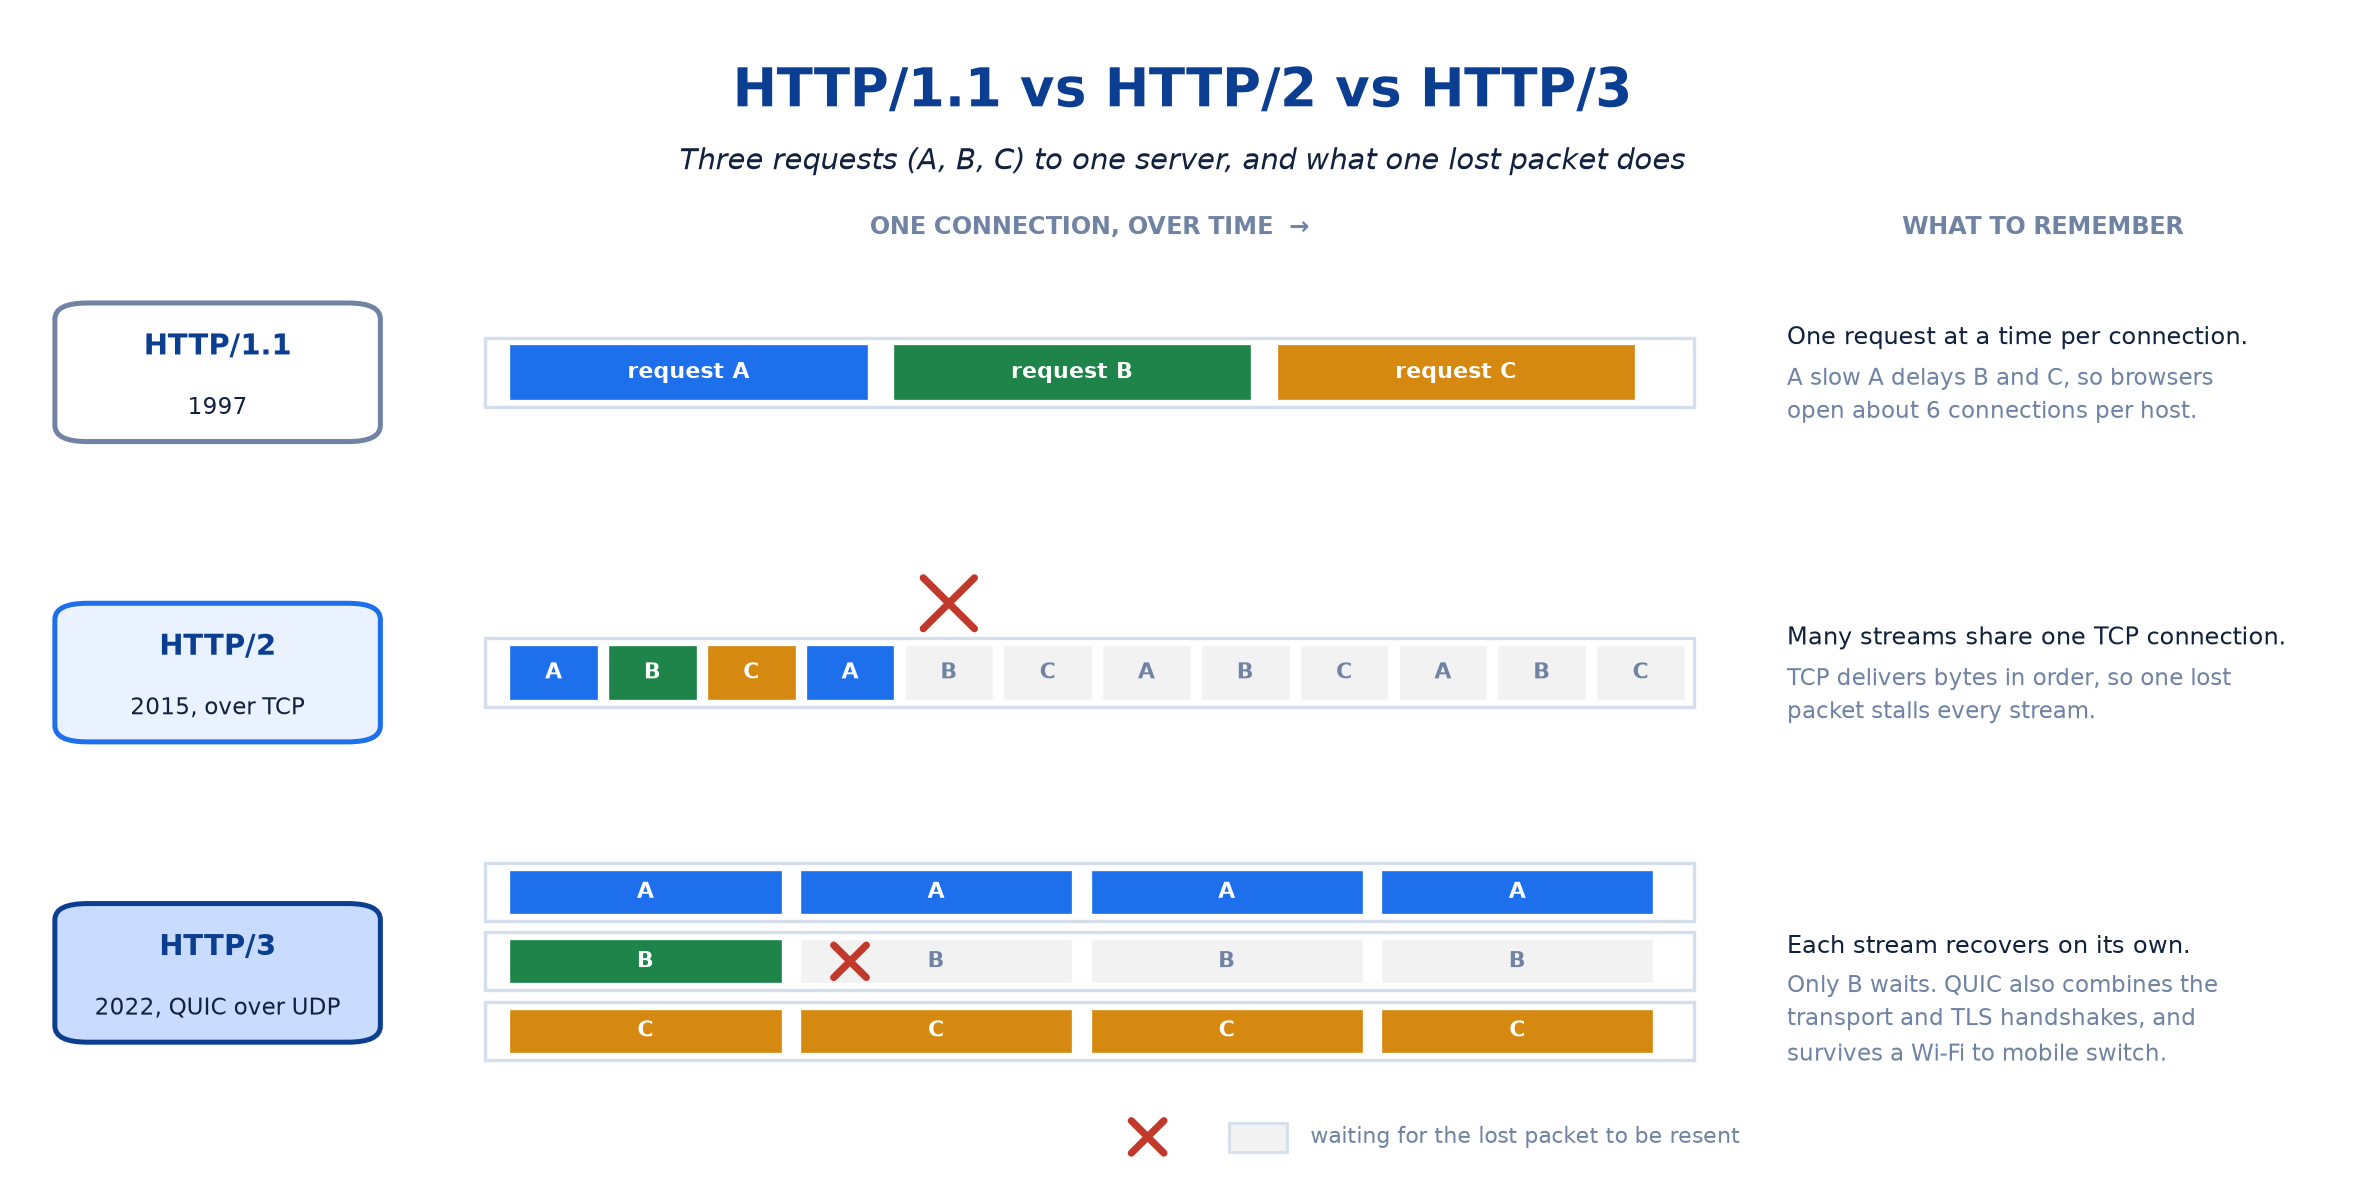
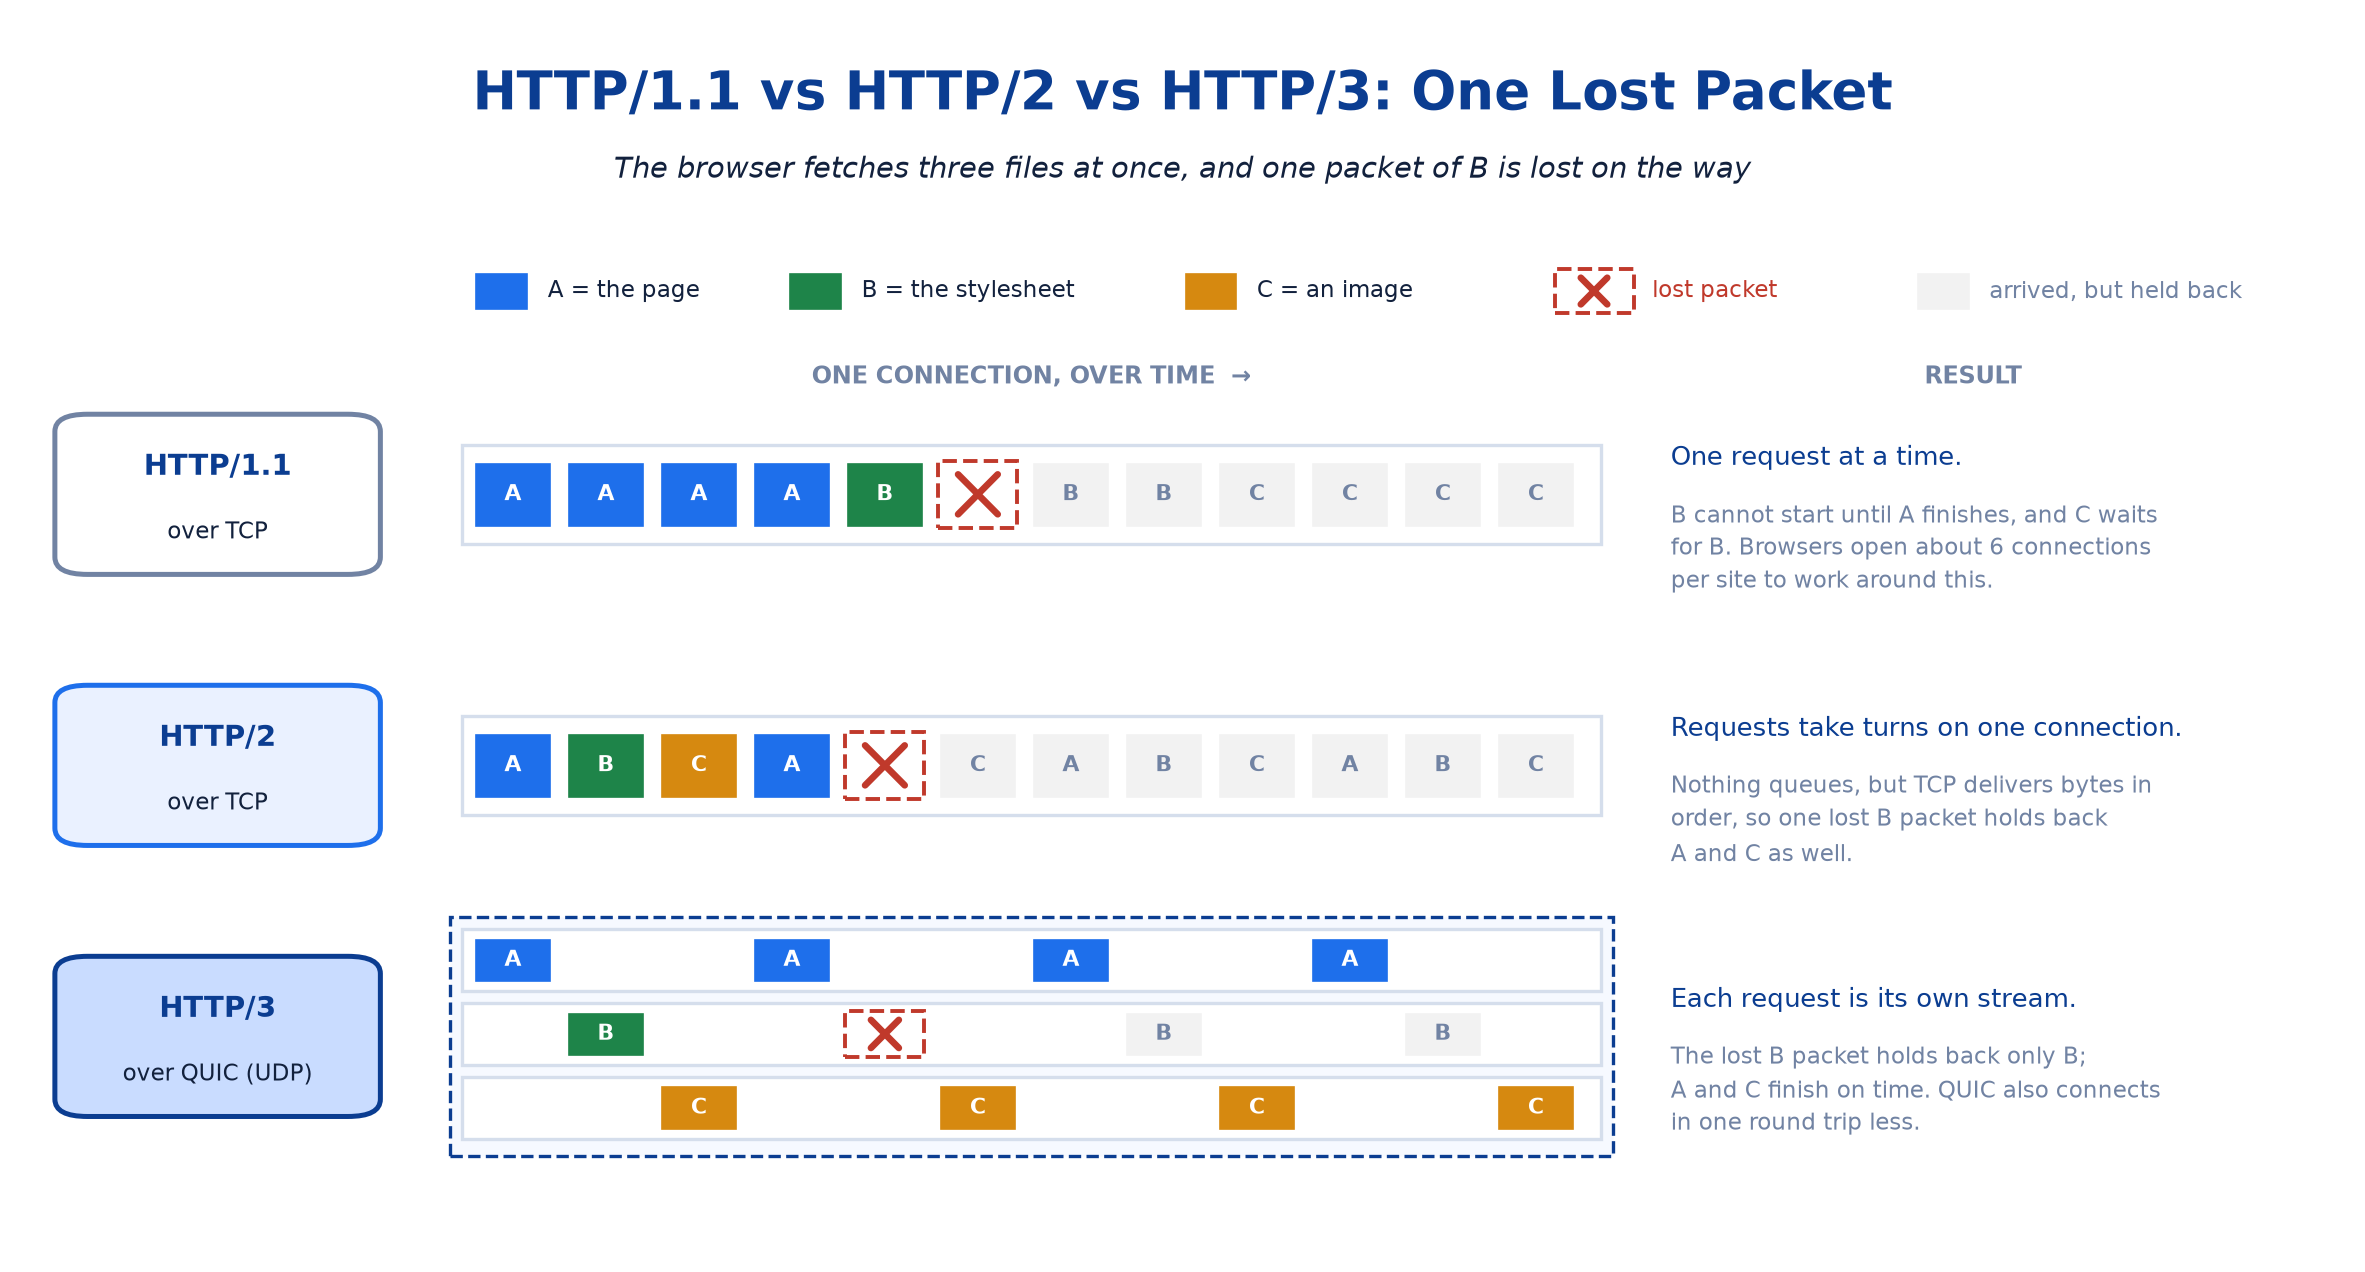
Basics 4: clearer HTTP versions figure (one scenario, one lost packet) and fuller table

diff --git a/system-design/_support/tools/plot_topic_04_figures.py b/system-design/_support/tools/plot_topic_04_figures.py
@@ -271,63 +271,84 @@ def connection_setup() -> plt.Figure:
 
 
 def http_versions() -> plt.Figure:
-    fig, ax = canvas(15, 7.5)
-    heading(ax, "HTTP/1.1 vs HTTP/2 vs HTTP/3",
-            "Three requests (A, B, C) to one server, and what one lost packet does")
+    fig, ax = canvas(15, 8)
+    heading(ax, "HTTP/1.1 vs HTTP/2 vs HTTP/3: One Lost Packet",
+            "The browser fetches three files at once, and one packet of B is lost on the way")
     colors = {"A": BLUE, "B": GREEN, "C": AMBER}
-    caps(ax, 46, 82, "ONE CONNECTION, OVER TIME  →")
-    caps(ax, 87, 82, "WHAT TO REMEMBER")
+    step, width, left = 4.0, 3.4, 19.5
 
-    def lane(y: float, height: float = 6) -> None:
-        ax.add_patch(Rectangle((20, y), 52, height, facecolor=WHITE, edgecolor=LINE,
+    def lost(x: float, y: float, height: float) -> None:
+        """An empty slot with a red X: the packet that never arrived."""
+        ax.add_patch(Rectangle((x, y), width, height, facecolor=WHITE, edgecolor=RED,
+                               linewidth=1.4, linestyle="--"))
+        cx, cy = x + width / 2, y + height / 2
+        half_y = height * 0.3                 # the X always fits inside its slot
+        half_x = half_y / 1.9                 # and stays square on this aspect ratio
+        for sign in (1, -1):
+            ax.plot([cx - half_x, cx + half_x], [cy - sign * half_y, cy + sign * half_y],
+                    color=RED, linewidth=2.4, solid_capstyle="round")
+
+    def packets(sequence: str, y: float, height: float, lost_at: int,
+                held_back: set[int]) -> None:
+        for index, name in enumerate(sequence):
+            x = left + index * step
+            if index == lost_at:
+                lost(x, y, height)
+            elif index in held_back:
+                bar(ax, x, y, width, height, DEAD, name, text_color=GREY)
+            elif name != " ":
+                bar(ax, x, y, width, height, colors[name], name)
+
+    def lane(y: float, height: float) -> None:
+        ax.add_patch(Rectangle((19, y), 49, height, facecolor=WHITE, edgecolor=LINE,
                                linewidth=1.2))
 
-    def lost(x: float, y: float, size: float = 1.1) -> None:
-        """Draw a red X marking a lost packet (two strokes, no glyph needed)."""
-        dy = size * 15 / 7.5          # keep the X square on this aspect ratio
-        for sign in (1, -1):
-            ax.plot([x - size, x + size], [y - sign * dy, y + sign * dy],
-                    color=RED, linewidth=2.6, solid_capstyle="round")
+    def result(y: float, title: str, body: str) -> None:
+        note(ax, 71, y, title, size=9.2, color=NAVY)
+        note(ax, 71, y - 7.4, body, size=8.2, color=GREY)
 
-    # HTTP/1.1: one request at a time.
-    box(ax, 2, 64, 13, 11, "HTTP/1.1", "1997", face=WHITE, edge=GREY)
-    lane(66.5)
-    for index, name in enumerate("ABC"):
-        bar(ax, 21 + index * 16.5, 67, 15.5, 5, colors[name], f"request {name}")
-    note(ax, 76, 72.5, "One request at a time per connection.")
-    note(ax, 76, 67.5, "A slow A delays B and C, so browsers\nopen about 6 connections per host.",
-         size=8.2, color=GREY)
+    # Key, then column headings.
+    key_y = 78
+    for x, name, label in ((19.5, "A", "A = the page"), (33, "B", "B = the stylesheet"),
+                           (50, "C", "C = an image")):
+        bar(ax, x, key_y - 1.6, 2.4, 3.2, colors[name])
+        note(ax, x + 3.2, key_y, label, size=8.4)
+    lost(66, key_y - 1.8, 3.6)
+    note(ax, 70.2, key_y, "lost packet", size=8.4, color=RED)
+    bar(ax, 81.5, key_y - 1.6, 2.4, 3.2, DEAD)
+    note(ax, 84.7, key_y, "arrived, but held back", size=8.4, color=GREY)
+    caps(ax, 43.5, 71, "ONE CONNECTION, OVER TIME  →")
+    caps(ax, 84, 71, "RESULT")
 
-    # HTTP/2: frames interleaved on one TCP connection; one loss stalls all.
-    box(ax, 2, 38, 13, 11, "HTTP/2", "2015, over TCP", face=PALE, edge=BLUE)
-    lane(40.5)
-    sequence = "ABCABCABCABC"
-    for index, name in enumerate(sequence):
-        stalled = index > 3
-        bar(ax, 21 + index * 4.25, 41, 3.9, 5, DEAD if stalled else colors[name],
-            name, text_color=GREY if stalled else WHITE)
-    lost(21 + 4 * 4.25 + 1.95, 49.5)
-    note(ax, 76, 46.5, "Many streams share one TCP connection.")
-    note(ax, 76, 41.5, "TCP delivers bytes in order, so one lost\npacket stalls every stream.",
-         size=8.2, color=GREY)
+    # HTTP/1.1: one request at a time, so everything queues behind the gap.
+    box(ax, 2, 55.5, 13, 12, "HTTP/1.1", "over TCP", face=WHITE, edge=GREY)
+    lane(57.5, 8)
+    packets("AAAABBBBCCCC", 58.8, 5.4, lost_at=5, held_back=set(range(6, 12)))
+    result(64.5, "One request at a time.",
+           "B cannot start until A finishes, and C waits\nfor B. Browsers open about 6 connections\n"
+           "per site to work around this.")
 
-    # HTTP/3: QUIC streams recover independently.
-    box(ax, 2, 12, 13, 11, "HTTP/3", "2022, QUIC over UDP", face=MIST, edge=NAVY)
+    # HTTP/2: requests take turns on one TCP connection; TCP's ordering stalls them all.
+    box(ax, 2, 33.5, 13, 12, "HTTP/2", "over TCP", face=PALE, edge=BLUE)
+    lane(35.5, 8)
+    packets("ABCABCABCABC", 36.8, 5.4, lost_at=4, held_back=set(range(5, 12)))
+    result(42.5, "Requests take turns on one connection.",
+           "Nothing queues, but TCP delivers bytes in\norder, so one lost B packet holds back\n"
+           "A and C as well.")
+
+    # HTTP/3: one QUIC connection, but each request is an independent stream.
+    box(ax, 2, 11.5, 13, 12, "HTTP/3", "over QUIC (UDP)", face=MIST, edge=NAVY)
+    ax.add_patch(Rectangle((18.5, 7.8), 50, 19.4, facecolor="#F6F9FF", edgecolor=NAVY,
+                           linewidth=1.2, linestyle="--"))
     for row, name in enumerate("ABC"):
-        y = 22 - row * 6
+        y = 21.2 - row * 6
         lane(y, 5)
-        for index in range(4):
-            stalled = name == "B" and index > 0
-            bar(ax, 21 + index * 12.5, y + 0.5, 11.8, 4,
-                DEAD if stalled else colors[name], name,
-                text_color=GREY if stalled else WHITE)
-    lost(21 + 12.5 + 2.2, 18.5, size=0.7)
-    note(ax, 76, 20, "Each stream recovers on its own.")
-    note(ax, 76, 13.5, "Only B waits. QUIC also combines the\ntransport and TLS handshakes, and\n"
-         "survives a Wi-Fi to mobile switch.", size=8.2, color=GREY)
-    ax.add_patch(Rectangle((52, 2), 2.5, 2.5, facecolor=DEAD, edgecolor=LINE))
-    note(ax, 55.5, 3.3, "waiting for the lost packet to be resent", size=8, color=GREY)
-    lost(48.5, 3.3, size=0.7)
+        sequence = "".join(name if index % 3 == row else " " for index in range(12))
+        held = {7, 10} if name == "B" else set()
+        packets(sequence, y + 0.6, 3.8, lost_at=4 if name == "B" else -1, held_back=held)
+    result(20.5, "Each request is its own stream.",
+           "The lost B packet holds back only B;\nA and C finish on time. QUIC also connects\n"
+           "in one round trip less.")
     return fig
 
 

diff --git a/system-design/basics/04_Networking_And_Request_Lifecycle.md b/system-design/basics/04_Networking_And_Request_Lifecycle.md
@@ -386,20 +386,22 @@ The full rules of API design, such as resource naming, pagination, and versionin
 
 **In one line:** all three versions mean the same thing; they differ in how requests share a connection, and in what one lost packet does.
 
-![HTTP/1.1, HTTP/2, and HTTP/3 under one lost packet](assets/topic-04/http_versions.png)
+All three versions speak the same language: the same methods, status codes, and headers, so `GET /summer-sale` means exactly the same thing in each. What changed over the years is **how requests travel over the connection**. That matters most when a page needs many files at once, on a network that is losing packets.
+
+![HTTP/1.1, HTTP/2, and HTTP/3 when one packet is lost](assets/topic-04/http_versions.png)
+
+The picture shows the same situation for each version: the browser fetches three files at once (A, B, and C), and one packet of B is lost on the way. The table explains each row:
 
 | | HTTP/1.1 (1997) | HTTP/2 (2015) | HTTP/3 (2022) |
 |---|---|---|---|
-| Runs on | TCP | TCP | QUIC, over UDP |
-| Requests per connection | One at a time | Many at once, as interleaved **streams** | Many at once, as independent streams |
-| One lost packet | Delays the request in flight | Stalls **every** stream, because TCP delivers in order | Stalls only its own stream |
-| New connection cost | 2 round trips (TCP + TLS) | 2 round trips (TCP + TLS) | 1 round trip (combined) |
-| Typical use today | Simple clients and older systems | Most browser traffic, and gRPC between services | Browsers and mobile apps on unreliable networks |
+| **Runs on** | TCP, usually with TLS on top. | TCP, with TLS on top. | QUIC, a newer transport built on UDP, with TLS built in. |
+| **How requests share a connection** | One at a time. A second request must wait until the first response has finished, so browsers open about 6 connections per site to fetch files in parallel. | Many at once. Each request becomes a **stream**, and the streams take turns sending small pieces over a single connection. | Many at once, as streams, like HTTP/2. The difference is that QUIC keeps track of each stream separately. |
+| **When one packet is lost** | The request it belongs to waits for the resend, and so does every request queued behind it on that connection. | Every stream waits, even those whose data has already arrived, because TCP hands bytes over strictly in order. | Only the stream that lost the packet waits; the others carry on. |
+| **Setting up a new connection** | 2 round trips: a TCP handshake, then a TLS 1.3 handshake. | The same 2 round trips as HTTP/1.1. | 1 round trip, because QUIC sets up the connection and the encryption together. |
+| **When the network changes** | A phone moving from Wi-Fi to mobile data gets a new IP address, so the connection breaks and must be set up again. | The same as HTTP/1.1. | The connection survives, because QUIC identifies it by a connection ID instead of by IP address. |
+| **Typical use today** | Simple clients, scripts, and older systems. | Most browser traffic, and gRPC calls between services. | Browsers and mobile apps, especially on unreliable networks. Usually switched on at the CDN or load balancer. |
 
-Two points are worth saying in an interview:
-
-- **HTTP/2 moved the bottleneck rather than removing it.** It lets many requests share one connection, but they all share one TCP stream, so one lost packet stalls them all. HTTP/3 fixes this by building its own independent streams on top of UDP.
-- **HTTP/3 survives network changes.** QUIC identifies a connection by an ID, not by IP address, so a phone switching from Wi-Fi to mobile data keeps its connection instead of starting over.
+**The point worth making in an interview:** HTTP/2 moved the bottleneck rather than removing it. It fixed HTTP/1.1's one-at-a-time queue, but its streams still share TCP's single, strictly ordered stream of bytes, so one lost packet stalls them all. HTTP/3 fixes that by moving off TCP onto QUIC.
 
 **What this tells us:** each click on the URL shortener sends one small request, so reusing the connection matters more than the HTTP version. HTTP/3 helps most for users on patchy mobile networks, and it is usually switched on at the edge or the load balancer, with no change to application code.
 
